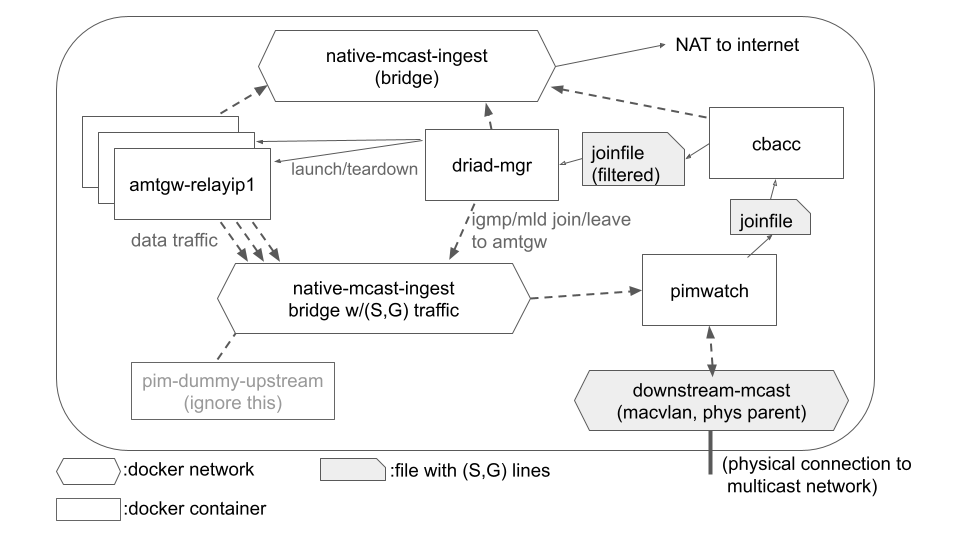
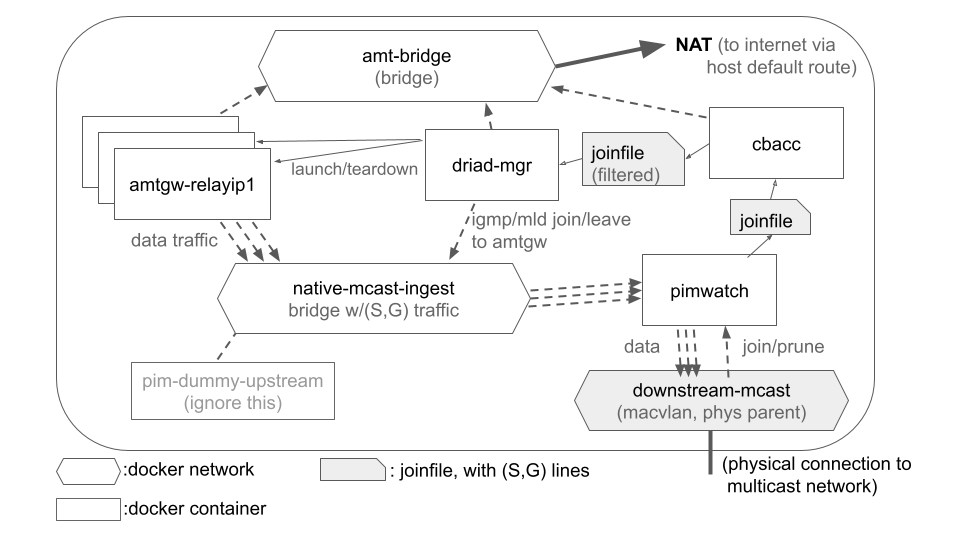
doc updates after a quick review

diff --git a/README.md b/README.md
@@ -4,7 +4,7 @@ This is a guide for setting up an ingest platform to pull in multicast
 traffic originating outside your local network.
 
 At this stage only IPv4 is supported.  Once IPv6 is supported in
-[FRR](https://frrouting.org/)'s [PIM](https://tools.ietf.org/html/rfc7761) implementation, we hope to upgrade this project to support IPv6 as well.
+[FRR](https://frrouting.org/)'s and/or an [open-source pimd](https://github.com/troglobit/pimd) implementation of [PIM](https://tools.ietf.org/html/rfc7761), we hope to upgrade this project to support IPv6 as well.
 
 This is a [DRIAD](https://tools.ietf.org/html/rfc8777)-based proof of concept that responds to [SSM](https://tools.ietf.org/html/rfc4607) joins to externally-supplied (S,G)s by ingesting multicast traffic from outside the local network.  It works by discovering an AMT relay that's specific to the source of the (S,G).  It uses no explicit source-specific configuration, and has no explicit peering with the source's network.
 
@@ -31,40 +31,40 @@ You can skip this section if you just want to make it run, but this is a brief o
 
 The goal is to send externally generated multicast traffic by making a tunnel to an auto-discovered [AMT](https://tools.ietf.org/html/rfc7450) relay for traffic joined by subscribers within your network.
 
-There are a several components the platform uses to achieve this goal, detailed below.  Here's the overal diagram:
+There are a several components the platform uses to achieve this goal, detailed below.  Here's the overall diagram:
 
 ![ingest-platform](ingest-platform-diagram.png)
 
 ## Docker Containers
 
  - multiple `amtgw` gateway containers (one per actively subscribed source IP).\
-   This runs an AMT gateway instance, which forms a unicast tunnel with the AMT relay associated with the source IP
- - one `driad-mgr` container.\
+   Each of these runs an AMT gateway instance, which forms a unicast tunnel with the AMT relay associated with the source IP
+ - one `driad-ingest` container.\
    This uses [DRIAD](https://tools.ietf.org/html/rfc8777) to discover the appropriate AMT relay given the source IP (from the (S,G)), launches the AMT gateway containers as needed, and maintains an IGMP/MLD join locally, which the AMT gateway will use.
  - one `pimwatch` container.\
-   This establishes a [PIM](https://tools.ietf.org/html/rfc7761) adjacency and monitors join/prune events to drive the driad-mgr.  It also forwards the multicast traffic from the docker network where the amtgw containers are sending it into the downstream network.\
-   The current implementation of the `pimwatch` container requires an upstream PIM neighbor in order to operate, even though ordinarily a PIM router should be able to forward traffic from a directly connected sender.  As a workaround for this implementation problem, there is also a `pim-dummy-upstream` container whose only purpose is to enable the operation of the `pimwatch` container.  (We aspire to remove this in a future version.)
+   This establishes a [PIM](https://tools.ietf.org/html/rfc7761) adjacency with the downstream multicast network and monitors join/prune events from the network to determine the current set of joined (S,G)s (exported via a joinfile).  It also forwards the multicast traffic from the docker network where the amtgw containers are sending it into the downstream network (this isolates the internal IGMP/MLD membership reports sent to the AMT gateways, so they aren't exposed to the multicast network).\
+   The [current implementation](https://github.com/troglobit/pimd) in the `pimwatch` container requires an upstream PIM neighbor in order to operate (though ordinarily a PIM router would be able to forward traffic from a directly connected sender even without an upstream PIM adjacency).  As a workaround for this implementation problem, there is a `pim-dummy-upstream` container whose only purpose is to enable the operation of the `pimwatch` container.  (We aspire to remove the dummy-upstream in a future version.)
  - optionally, one `cbacc` container.\
-   This uses [CBACC](https://datatracker.ietf.org/doc/draft-ietf-mboned-cbacc/) to limit the traffic permitted.  If the users within your network subscribe to more than the permitted total bandwidth of traffic, this will prevent the ingest platform from subscribing to traffic that exceeds the limit (so some subscribers will not receive traffic).
+   This uses [CBACC](https://datatracker.ietf.org/doc/draft-ietf-mboned-cbacc/) metadata to limit the traffic permitted.  If the users within your network subscribe to more than the permitted total bandwidth of traffic, this will prevent the ingest platform from subscribing to traffic that exceeds the limit (so subscribers to some flows will not receive traffic).
 
-These containers are connected by some docker networks for routing traffic, plus a set of "join files" to communicate the set of currently joined (S,G)s between containers.
+These containers are connected by some docker networks for routing traffic, plus some "joinfiles" to communicate the set of currently subscribed (S,G)s between containers.
 
 ## Docker Networks
 
 The networks:
 
- - `amt-bridge`: a [bridge](https://docs.docker.com/network/bridge/) to the internet for unicast traffic.\
+ - `amt-bridge`: a [docker bridge network](https://docs.docker.com/network/bridge/) with [NAT](https://en.wikipedia.org/wiki/Network_address_translation) to the internet for unicast traffic.\
    This will carry 2-way traffic to the internet for:
 
    - AMT (UDP port 2268) for the AMT tunnels from the `amtgw` containers to the discovered relays
-   - DNS (UDP port 53) for AMTRELAY record queries from the `driad-mgr` container, and SRV, A, and AAAA record queries from the `cbacc` container
-   - HTTPS (TCP port 443) for the discovered [DORMS](https://datatracker.ietf.org/doc/draft-ietf-mboned-dorms/) server carrying the [CBACC](https://datatracker.ietf.org/doc/draft-ietf-mboned-cbacc/) metadata about the (S,G)'s bitrate.
+   - DNS (UDP port 53) for [AMTRELAY](https://tools.ietf.org/html/rfc8777#section-4) record queries from the `driad-ingest` container, and [SRV](https://tools.ietf.org/html/rfc2782), [A](https://en.wikipedia.org/wiki/List_of_DNS_record_types#Resource_records), and [AAAA](https://en.wikipedia.org/wiki/IPv6_address#Domain_Name_System) record queries from the `cbacc` container
+   - HTTPS (TCP port 443) for the discovered [DORMS](https://datatracker.ietf.org/doc/draft-ietf-mboned-dorms/) server carrying the [CBACC](https://datatracker.ietf.org/doc/draft-ietf-mboned-cbacc/) metadata (which includes the (S,G)'s bitrate).
 
  - `native-mcast-ingest`: a local bridge where the native multicast traffic lands.\
    The traffic on this network is:
 
    - native multicast traffic from the `amtgw` containers.  These are the data packets that users in the network have subscribed to receive.
-   - IGMP/MLD membership queries from the `amtgw` containers and membership reports from the `driad-mgr` container.
+   - IGMP/MLD membership queries from the `amtgw` containers and membership reports from the `driad-ingest` container.
    - PIM hello packets between the `pimwatch` container and the `pim-upstream-dummy`
 
  - `downstream-mcast`: a [macvlan](https://docs.docker.com/network/macvlan/) network connecting the `pimwatch` container to the downstream multicast-enabled network.\
@@ -72,23 +72,23 @@ The networks:
 
    - the PIM messages of the connected multicast-capable network
    - the native multicast traffic to be forwarded through the network.
-   - If this interface is also the defualt route to the internet for the host, the other traffic on the box could also end up passing through this network (for instance, the NATted packets from the amt-bridge network, or ssh sessions to the host machine).
+   - If this interface is also the default route to the internet for the host, the other traffic on the box could also end up passing through this network (for instance, the NATted packets from the amt-bridge network, or ssh sessions to the host machine).
 
 ### Docker Network Constraints
 
 NB: If you try to change the names of these networks, please be aware of a surprising [docker issue](https://github.com/moby/moby/issues/25181) that places constraints on the lexical ordering of the names.
 
  - `amt-bridge` MUST be lexically earlier than `native-mcast-ingest`, otherwise the interface names visible inside the `amtgw` containers will not be the expected eth0 for the unicast AMT connection and eth1 for producing the native multicast, but would instead be reversed.
-  - You would see this problem for example if you renamed amt-bridge to outside-bridge, because 'o' is lexically later than 'n', as opposed to 'a' which is earlier.
+    - You would see this problem for example if you renamed "amt-bridge" to "outside-bridge", because 'o' from "outside" is lexically later than 'n' from "native", as opposed to 'a' which is earlier.
  - `downstream-mcast` MUST be lexically earlier than `native-mcast-ingest`, otherwise the interface names visible inside the `pimwatch` container will not be the expected eth0 for downstream and eth1 for upstream, but would instead be reversed.
 
 ## Joinfiles
 
 The `pimwatch` and `cbacc` containers produce joinfiles, and the `docker-mgr` and `cbacc` containers consume joinfiles.
 
-Consuming a joinfile is done with the [watchdog](https://pypi.org/project/watchdog/) python library (where available, such as on a modern linux kernel, it uses a platform-specific notification scheme such as [inotify](https://man7.org/linux/man-pages/man7/inotify.7.html) to alert watchers on changes).`
+Consuming a joinfile is done with the [watchdog](https://pypi.org/project/watchdog/) python library (where available, such as on a modern linux kernel, it uses a platform-specific notification scheme such as [inotify](https://man7.org/linux/man-pages/man7/inotify.7.html) to alert watchers on changes to the file).
 
-The joinfiles contain a comma-separated source ip, group ip per line.  In the case of CBACC, it may also contain (optionally) a third comma-separated value for "population", meaning the number of subscribed users.
+The joinfiles contain a comma-separated source ip, group ip per line.
 
 ~~~
 23.212.185.5,232.1.1.1
@@ -101,18 +101,20 @@ The (S,G) entries on each line indicate the joined (S,G)s for which traffic shou
 
 When the pimwatch joinfile changes, `cbacc` will respond by possibly changing the file it produces, depending on the results of comparing the expected aggregate bitrate to its bandwidth limit.
 
-When the cbacc joinfile changes, driad-mgr will respond by launching or shutting down amtgw instances if the active source list changes, and by starting a process that maintains a joined state for each (S,G), so that the AMT gateway instances will ingest traffic from the relays they connect to.
+When the cbacc joinfile changes, driad-ingest will respond by launching or shutting down amtgw instances if the active source list changes, and by starting a process that maintains a joined state for each (S,G), so that the AMT gateway instances will ingest traffic from the relays they connect to.
 
-It is possible to edit joinfiles by other means than these, to be consumed by the containers that consume them, they're just files on the file system.  These containers will regularly overwrite the joinfiles they produce, so things like manual edits will not be stable (though they might sometimes be useful for troubleshooting or experimenting).
+In the case of the joinfile that CBACC consumes, it also may contain (optionally) a third comma-separated value for "population", meaning the number of subscribed users.  This will influence the filtering of (S,G)s to favor the flows producing the highest offload (calculated as "(population-1)\*bitrate").  Where offload is equal (typically at 0, due to a population of 1 which is the assumed value when no population is given), it instead favors smaller flows.
+
+It is possible to edit joinfiles by other means than these, to be consumed by the containers that consume them.  They're just files on the file system.  These containers will regularly overwrite the joinfiles they produce, so things like manual edits will not be stable when pimwatch or cbacc is actively driving a joinfile (though they might sometimes be useful for troubleshooting or experimenting).
 
 # Setup
 
 ## Prerequisites
 
-  - Docker and privileged access.
-  - Outbound UDP and TCP unicast connectivity to the internet that permits return traffic for the same connection.  (This can be via the same downstream multicast network or a different interface.)
-  - Downstream multicast-capable network running PIM, with an RPF to this device for the sources you want to ingest (e.g. with "ip mroute 0.0.0.0/0 \<interface\>" towards this device's interface)
-  - Receivers downstream of the multicast-capable network with multicast receiving applications using source-specific multicast joins (e.g. [vlc](https://www.videolan.org/vlc/) or [iperf-ssm](https://github.com/GrumpyOldTroll/iperf-ssm) or some sample apps we can provide on request.)
+  - Docker and privileged access on the ingest device.
+  - Outbound UDP and TCP unicast connectivity to the internet that permits return traffic for the same connection.  (This can be via the same downstream multicast network or a different interface, and can have layers of external NAT or not, provided that return traffic for outbound connections that were opened is permitted both for UDP and TCP.)
+  - Downstream multicast-capable network running PIM, with an RPF to the ingest device for the sources you want to ingest (e.g. with "ip mroute 0.0.0.0/0 \<interface\>" towards this device's interface from an adjacent PIM router on an end user's default route)
+  - Receivers downstream of the multicast-capable network with multicast receiving applications that use source-specific multicast joins to subscribe to multicast traffic (e.g. [vlc](https://www.videolan.org/vlc/) or [iperf-ssm](https://github.com/GrumpyOldTroll/iperf-ssm) or some sample apps we can provide on request.)
 
 NB: The containers have been tested with ubuntu 20.04 in a default server installation (plus `apt-get install -y docker.io`).
 In some other setups, we have seen firewall or apparmor rules that interfere with the expected behavior of some of the containers.
@@ -161,10 +163,10 @@ Variable meanings:
   - **SUBNET**: the subnet for PIMD and GATEWAY
   - **PIMD**: the IP address the PIM adjacency will use for connecting over IFACE, from inside the container.  If you are using IFACE for other traffic, this IP has to be different from the IP address for the host.  (There's a sample command below that tries to extract it from the output of "ip addr show dev $IFACE" and then add one.)
   - **BW_MAX_MIBPS**: The max bandwidth, to be enforced by `cbacc` according to the flow metadata.
-  - **JOINFILE**: The full path of the joinfile produced by `pimwatch`
-  - **CBJOINFILE**: The full path of the joinfile consumed by `driad-mgr`
+  - **JOINFILE**: The full path of the joinfile produced by `pimwatch` (consumed by `cbacc` or `driad-ingest` if running without cbacc)
+  - **CBJOINFILE**: The full path of the joinfile consumed by `driad-ingest` (produced by `cbacc` or `pimwatch` if running without cbacc)
 
-Because several of the containers require privileged access (`pimwatch`, `pim-upstream-dummy`, and `amtgw` for access to the kernel's multicast routing table, plus creation of a tap interface for `amtgw` and packet capture and sending of PIM packets for `pimwatch` and `pim-upstream-dummy`, and `driad-mgr` for access to the docker socket so it can launch amtgw instances with privileged access).
+Because several of the containers require privileged access (`pimwatch`, `pim-upstream-dummy`, and `amtgw` for access to the kernel's multicast routing table, plus creation of a tap interface for `amtgw` and packet capture and sending of PIM packets for `pimwatch` and `pim-upstream-dummy`, and `driad-ingest` for access to the docker socket so it can launch amtgw instances with privileged access).
 
 ## Network Setup
 
@@ -219,7 +221,9 @@ The cbacc container uses bandwidth metadata according to the [CBACC](https://dat
 
 If you want to permit ingesting traffic without cbacc metadata, you can provide a `--default <bw>` value to this call, and it should treat flows without available metadata as having the given value in MiBps.
 
-If you don't want to run cbacc at all, you don't have to.  Set `CBJOINFILE=$JOINFILE` before starting driad-mgr and don't launch cbacc, and driad-mgr will use the joinfile produced by pimwatch, rather than the filtered joinfile produced by cbacc.
+If you don't want to run cbacc at all, you don't have to.  Set `CBJOINFILE=$JOINFILE` before starting driad-ingest and don't launch cbacc, and driad-ingest will use the joinfile produced by pimwatch, rather than the filtered joinfile produced by cbacc.
+
+NB: the default behavior of cbacc when no CBACC metadata is present for an (S,G) is to set its bitrate above the maximum bitrate, so it will always be blocked.  If you want to ingest traffic from sources that do not have CBACC metadata, it will be necessary either to run without `cbacc` or to set a `--default <bandwidth>` override bandwidth for unknown (S,G)s.
 
 ~~~
 # ensure both joinfiles are present
@@ -241,7 +245,7 @@ sudo docker run \
       --bandwidth ${BW_MAX_MIBPS}
 ~~~
 
-### driad-mgr
+### driad-ingest
 
 `driag-mgr` discovers AMT relays suitable for the source IP in an (S,G) of an SSM join, using and AMTRELAY DNS query, roughly as described in [RFC 8777](https://tools.ietf.org/html/rfc8777).
 
@@ -249,7 +253,7 @@ If it's able to discover a suitable AMT relay, it launches an AMT gateway to con
 
 ~~~
 sudo docker run \
-    --name driad-mgr \
+    --name driad-ingest \
     --privileged --network mcast-native-ingest \
     --log-opt max-size=2m --log-opt max-file=5 \
     -v /var/run/docker.sock:/var/run/docker.sock \
@@ -261,7 +265,7 @@ sudo docker run \
       --joinfile /var/run/ingest/$(basename $CBJOINFILE) -v
 ~~~
 
-Parameters to the driad-mgr container are:
+Parameters to the driad-ingest container are:
 
  * **amt**\
   The docker network that AMT gateways will use for AMT traffic.
@@ -319,7 +323,7 @@ Some have said there's other alternative setups that are necessary in their envi
 
 ## Checking the basics
 
-You might want to make sure there's not some external kind of block happening.  For this, I generally try receiving a trickle stream I leave running for this purpose on 23.212.185.4->232.1.1.1.  You can run a receiver for it directly on your ingest platform to ensure the ingest platform's network can successfully discover and ingest the traffic at all:
+You might want to make sure there's not some external kind of block happening.  For this, I generally try receiving a trickle stream I leave running for this purpose on 23.212.185.4->232.1.1.1.  You can run a receiver for it manually on your ingest platform to ensure the ingest platform's network can successfully discover and ingest the traffic at all:
 
 ~~~
 SOURCEIP=23.212.185.4
@@ -356,8 +360,8 @@ setting perf ip4 ttl to 1
 
 The first line reporting a high loss is an artifact of the way iperf is running.  In this model, the sender (or "client", as iperf calls it, which is kind of weird but makes some twisted sense for UDP, since servers are the ones who listen) is running from my source all the time, and the receiver (or "server" as iperf calls it) starts listening at some arbitrary time, so it sees a bunch of "loss".  The sender is restarted every 15 minutes and sends a single 125-byte packet per second (1kbps), each of which counts toward the receiver's stats.
 
-If you don't see the lines below "[  3] local 232.1.1.1 port 5001 connected with 23.212.185.4 port 5001", or they aren't updating approximately once per second, it can mean the sender is not up right now, or that something else basic that the ingest relies on isn't working yet.
-Usually (but not always) you can tell by looking at the AMT traffic on UDP port 2268.  If you see 2-way traffic between your host and $DISCIP, the tunnel is probably connected, otherwise probably not.
+If you don't see the lines below `[  3] local 232.1.1.1 port 5001 connected with 23.212.185.4 port 5001`, or they aren't updating approximately once per second, it can mean the sender is not up right now, or that something else basic that the ingest relies on isn't working yet.
+Usually (but not always) you can tell by looking at the AMT traffic on UDP port 2268.  If you see 2-way traffic between your host and $DISCIP, the tunnel is probably connected, and the problem is at the sender side (either not actively sending upstream of the relay, or the current DNS records have advertised the wrong AMT relay address for this source).  Otherwise (if there is only outbound traffic), the problem is probably something to do with connectivity to the AMT relay (sometimes the outbound traffic is blocked and needs a port opened, for some networks), or the AMT relay itself is down or at a different-than-advertised address.  If not even one-way AMT traffic is visible on the host's outbound interface, it probably means a firewall setting within this host is blocking oubound traffic.
 
 ## Where to look
 
@@ -370,23 +374,10 @@ TBD: add some sample pcaps with network diagram locations.
 Access to the containers underlying file system with sh:
 
 ~~~bash
-sudo docker exec -it driad-mgr sh
+sudo docker exec -it driad-ingest sh
 ~~~
 
-Inside pimwatch, there are logs in /var/log/frr/, and frr config files in /etc/frr/, and access to the router configuration with vtysh:
-
-~~~bash
-sudo docker exec -it pimwatch vtysh
-~~~
-
-This is similar to using a Cisco command line, and supports many
-useful commands like "show ip route", "show ip pim neighbor", 
-"show ip pim state", "show running", etc.  There's a great manual
-and typing a ? will show commands that can come next.
-
-It's also often helpful to see what's happening in the ingest-rtr, there's
-logging that at least shows whether joins are reaching the router and
-what gateways are launched (also visible with "docker container ls"):
+It's also often helpful to see the log output, especially if you've passed the `-v` parameters at the end, as the above examples do.  There's logging that at least shows whether joins are reaching the router and what gateways are launched (also visible with "docker container ls"):
 
 ~~~bash
 sudo docker logs -f pimwatch
@@ -406,8 +397,8 @@ Akamai also has some proprietary receivers and corresponding source streams that
 There are also a number of video streams active on [internet2](https://www.internet2.edu/) and reachable by some AMT relays.
 
  * Lauren Delwiche wrote and maintains a [menu of content](https://multicastmenu.herokuapp.com/) app
- * William Zhang has published a [scanning script](https://github.com/willzhang05/senior-research/blob/master/find_src_i2.py) to find live multicast streams by scraping the [Routing Table Proxy](https://routerproxy.wash2.net.internet2.edu/routerproxy/) published by [Indiana University](https://routerproxy.wash2.net.internet2.edu/).
- * Lenny Giuliano maintains a "[MTTG](https://www.ietf.org/proceedings/104/slides/slides-104-mboned-mttg-01)" (Multicast to the Grandma) slack server where you can learn about all this and more.  If you'll be working in this space and you want to get in touch with the people driving this technology, contact me (open an issue if you like) and I can get you an invite.
+ * William Zhang has published a [scanning script](https://github.com/willzhang05/senior-research/blob/master/find_src_i2.py) to find live multicast streams on I2 by scraping the [Routing Table Proxy](https://routerproxy.wash2.net.internet2.edu/routerproxy/) published by [Indiana University](https://routerproxy.wash2.net.internet2.edu/).
+ * Lenny Giuliano maintains a "[MTTG](https://www.ietf.org/proceedings/104/slides/slides-104-mboned-mttg-01)" (Multicast to the Grandma) slack server where you can learn about all this and more.  If you'll be working in this space and you want to get in touch with the people driving this technology, contact me (open an issue if you like, or my email is in some of the specs linked above) and I can get you an invite.
 
 ### AMT in VLC
 
